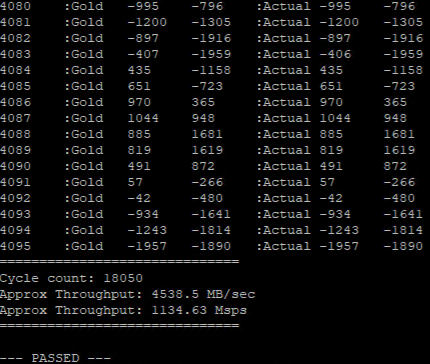
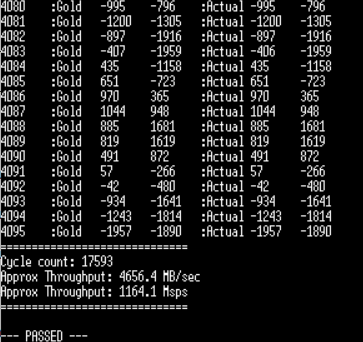
AIE / AIE-ML design tutorial: farrow-filter update to 2026.1

diff --git a/AI_Engine_Development/AIE-ML/Design_Tutorials/06-farrow_filter/README.md b/AI_Engine_Development/AIE-ML/Design_Tutorials/06-farrow_filter/README.md
@@ -15,7 +15,7 @@
 
 # Migrating Fractional Delay Farrow Filter from AIE to AIE-ML Architecture
 
-***Version: Vitis 2025.2***
+***Version: Vitis 2026.1***
 
 ## Introduction
 
@@ -42,13 +42,13 @@ The design requirements are identical here as you are simply migrating the desig
 | Coefficients data type | `int16` |
 | Delay input data type | `int16` |
 
-**IMPORTANT**: Before beginning the tutorial, read and follow *Vitis Software Platform Release Notes* (v2025.2) to set up the software and install the VEK280 base platform.
+**IMPORTANT**: Before beginning the tutorial, read and follow *Vitis Software Platform Release Notes* (v2026.1) to set up the software and install the VEK280 base platform.
 
 Before starting this tutorial, run the following steps:
 
-1. Set up your platform by running the `xilinx-versal-common-v2025.2/environment-setup-cortexa72-cortexa53-amd-linux` script as provided in the platform download. This script sets up the `SYSROOT` and `CXX` variables. If the script is not present, you *must* run `xilinx-versal-common-v2025.2/sdk.sh`.
-2. Set up your ROOTFS to point to the `xilinx-versal-common-v2025.2/rootfs.ext4`.
-3. Set up your IMAGE to point to `xilinx-versal-common-v2025.2/Image`.
+1. Set up your platform by running the `xilinx-versal-common-v2026.1/environment-setup-cortexa72-cortexa53-amd-linux` script as provided in the platform download. This script sets up the `SYSROOT` and `CXX` variables. If the script is not present, you *must* run `xilinx-versal-common-v2026.1/sdk.sh`.
+2. Set up your ROOTFS to point to the `xilinx-versal-common-v2026.1/rootfs.ext4`.
+3. Set up your IMAGE to point to `xilinx-versal-common-v2026.1/Image`.
 4. Set up your `PLATFORM_REPO_PATHS` environment variable based upon where you downloaded the platform.
 
 ## Table of Contents
@@ -85,7 +85,7 @@ Make sure to set the `PLATFORM_REPO_PATHS` environment variable.
 Enter the following command to source the Vitis tool:
 
 ```
-source /<TOOL_INSTALL_PATH>/Vitis/2025.2/settings.sh
+source /<TOOL_INSTALL_PATH>/Vitis/2026.1/settings.sh
 ```
 
 #### Update the Makefile to switch the device from AIE to AIE-ML
@@ -218,7 +218,7 @@ The first command compiles the graph code for the SystemC simulator. The second 
 After the final command execution, the console must output as the following:
 
 ```
-Raw Throughput = 449.0 MSPS
+Raw Throughput = 414.5 MSPS
 Max error LSB = 1
 ```
 
@@ -235,15 +235,15 @@ Select the `Graph` view.
 
 The Graph view shows the kernels in the graph and the input/output ports of the graph. Select the I/O tabs as shown in the preceeding diagram. Observe the Throughput column in the I/O tab.
 
-The output PLIO port throughput shows the value 1795.8611 MBYTES PER SEC (MBPS). To obtain the throughput in samples per second, divide the throughput by four. The data type used, `cint16`, is four bytes in size. This calculation results in a throughput value of 449.0 mega samples per second (MSPS).
+The output PLIO port throughput shows the value 1731.1918 MBYTES PER SEC (MBPS). To obtain the throughput in samples per second, divide the throughput by four. The data type used, `cint16`, is four bytes in size. This calculation results in a throughput value of 414.5 mega samples per second (MSPS).
 
-A more accurate throughput measurement can be made by measuring the steady state achieved in the final graph iteration. In vitis_analyzer, select the trace view and set markers to measure the throughput of this final iteration as shown below. Because each graph iteration processes 1024 samples, throughput = 1024/2.77 = 369.68 MSPS.
+A more accurate throughput measurement can be made by measuring the steady state achieved in the final graph iteration. In vitis_analyzer, select the trace view and set markers to measure the throughput of this final iteration as shown below. Because each graph iteration processes 1024 samples, throughput = 1024/3.021 = 338.96 MSPS.
 
 Note: In the graph, select the output port which shows the net name, in this case it is net6. Then select the `Trace` view, which shows the selected net.
 
 ![Initial_Port_Graph](./images/Initial_Port_Trace.png)
 
-The design requirement is to reach 1 GSPS, but the current performance is only **369.68 MSPS**.
+The design requirement is to reach 1 GSPS, but the current performance is only **338.96 MSPS**.
 
 Close the Vitis Analyzer.
 
@@ -445,13 +445,13 @@ The console must output as the following:
 *** [LOOP_II] *** Tile 19_4 minII = 29 achieves II = 29
 ```
 
-The implementation of `farrow_kernel1.cpp` spans across tiles 18_1, 19_0, 19_1, and 19_4. Based on the preceeding results, these tiles successfully achieved an II of 29 for each of their respective for loops, meeting the desired performance targets.
+The implementation of `farrow_kernel1.cpp` spans across tiles 18_1, 19_0, 19_1, 19_2 and 19_4. Based on the preceeding results, these tiles successfully achieved an II of 29 for each of their respective for loops, meeting the desired performance targets.
 
 ### Comparison of the Optimizations
 
 | Design              | Number of Tiles | Throughput  |
 |---------------------|-----------------|-------------|
-| farrow_port_initial |       2         | 369.7 MSPS  |
+| farrow_port_initial |       2         | 338.9 MSPS  |
 | farrow_opt_1        |       3         | 664.9 MSPS  |
 | farrow_opt_2        |       5         | 1008.9 MSPS |
 
@@ -476,7 +476,7 @@ DDR memory connects to the AI Engine kernels using the preceeding port specifica
 
 Review the test bench `farrow_app_adf.cpp`, updated for GMIO interface.
 
-In Linux, the virtual address passed to GMIO::gm2aie_nb, GMIO::aie2gm_nb, GMIO::gm2aie and, GMIO::malloc must allocate GMIO::aie2gm. Ypu can initialize it after the allocation of the input data.
+In Linux, the virtual address passed to GMIO::gm2aie_nb, GMIO::aie2gm_nb, GMIO::gm2aie and, GMIO::malloc must allocate GMIO::aie2gm. You can initialize it after the allocation of the input data.
 
 1. Memory allocated by `GMIO::malloc` for input and ouput data as shown as the following:
 
@@ -565,7 +565,7 @@ The following diagram shows the entire Vitis tool flow, encompassing the develop
 
 #### Setup and Initialization
 
-IMPORTANT: Before beginning the tutorial, make sure you have installed AMD Vitis™ 2025.2 software. Make sure you have downloaded the Common Images for Embedded Vitis Platforms from this link.
+IMPORTANT: Before beginning the tutorial, make sure you have installed AMD Vitis™ 2026.1 software. Make sure you have downloaded the Common Images for Embedded Vitis Platforms from this link.
 
 <https://www.xilinx.com/support/download/index.html/content/xilinx/en/downloadNav/embedded-platforms/2025-2.html>
 
@@ -614,8 +614,8 @@ PASSED:  xrt::aie::profiling handle(my_device);
 INFO:    Started profiling timers...
 
 PASSED:  my_graph.run( ITERATION=4 )
-Throughput of the graph: 4241.92 MB/s
-Throughput of the graph: 1060.48 MSPS
+Throughput of the graph: 4208.8 MB/s
+Throughput of the graph: 1052.2 MSPS
 ...
 ```
 
@@ -647,8 +647,8 @@ PASSED:  xrt::aie::profiling handle(my_device);
 INFO:    Started profiling timers...
  
 PASSED:  my_graph.run( ITERATION=4 )
-Throughput of the graph: 4497.15 MB/s
-Throughput of the graph: 1124.29 MSPS
+Throughput of the graph: 4494.18 MB/s
+Throughput of the graph: 1123.55 MSPS
 --- PASSED ---
 GMIO transactions finished
 
@@ -663,8 +663,8 @@ This indicates that approximately twice the number of tiles is required for kern
 
 | Design                 | Tiles for AIE Kernels | Tiles for Buffers | Total Tiles |  Throughput         | Relative MSPS per tile |
 |------------------------|-----------------------|-------------------|-------------|---------------------|------------------------|
-| farrow - AIE (PLIO)    |       2               | 5                 | 5           | 1138 MSPS (HW_EMU)  | 227.6                  |
-| farrow - AIE-ML (GMIO) |       5               | 8                 | 8           | 1061 MSPS (HW_EMU)  | 132.6                  |
+| farrow - AIE (PLIO)    |       2               | 5                 | 5           | 1134.64 MSPS (HW_EMU)  | 226.9                  |
+| farrow - AIE-ML (GMIO) |       5               | 8                 | 8           | 1052.2 MSPS (HW_EMU)  | 131.5                  |
 
 **Note:**Total Tiles: Represents the total count of tiles, including those that have both kernels and buffers within the same tile.
 

diff --git a/AI_Engine_Development/AIE/Design_Tutorials/15-farrow_filter/README.md b/AI_Engine_Development/AIE/Design_Tutorials/15-farrow_filter/README.md
@@ -15,7 +15,7 @@
 
 # Fractional Delay Farrow Filter
 
-***Version: Vitis 2025.2***
+***Version: Vitis 2026.1***
 
 ## Table of Contents
 
@@ -297,7 +297,7 @@ Steady state throughput is 1024/913e-6 = 1122 Msps.
 
 ### Setup and Initialization
 
-IMPORTANT: Install the Vitis 2025.2 software before starting the tutorial. Downloaded the Common Images for Embedded Vitis Platforms from [this link](https://www.xilinx.com/support/download/index.html/content/xilinx/en/downloadNav/embedded-platforms.html).
+IMPORTANT: Install the Vitis 2026.1 software before starting the tutorial. Downloaded the Common Images for Embedded Vitis Platforms from [this link](https://www.xilinx.com/support/download/index.html/content/xilinx/en/downloadNav/embedded-platforms.html).
 
 Set the environment variable ```COMMON_IMAGE_VERSAL``` to the full path where you downloaded the Common Images. Then set the environment variable ```PLATFORM_REPO_PATHS``` to the value ```$XILINX_VITIS/base_platforms```. The remaining environment variables are configured in the top level Makefile.
 
@@ -322,7 +322,7 @@ After hardware emulation run is complete, you can measure throughput in Vivado b
 
 *Figure 14 - Farrow Filter Final Implementation Hardware Emulation*
 
-Throughput measured through the traces is 1024 x 4 x 4/14.5e-6 = 1130 Msps.
+Throughput measured through the traces is 1024 x 4 x 4/14.43e-6 = 1135 Msps.
 
 After the hardware emulation run completes, the following displays on the terminal. Measure throughput using XRT APIs. For more information, refer to *AI Engine Tools and Flows User Guide* [(UG1076)](https://docs.amd.com/r/en-US/ug1076-ai-engine-environment/XRT-Support-for-Event-APIs).
 
